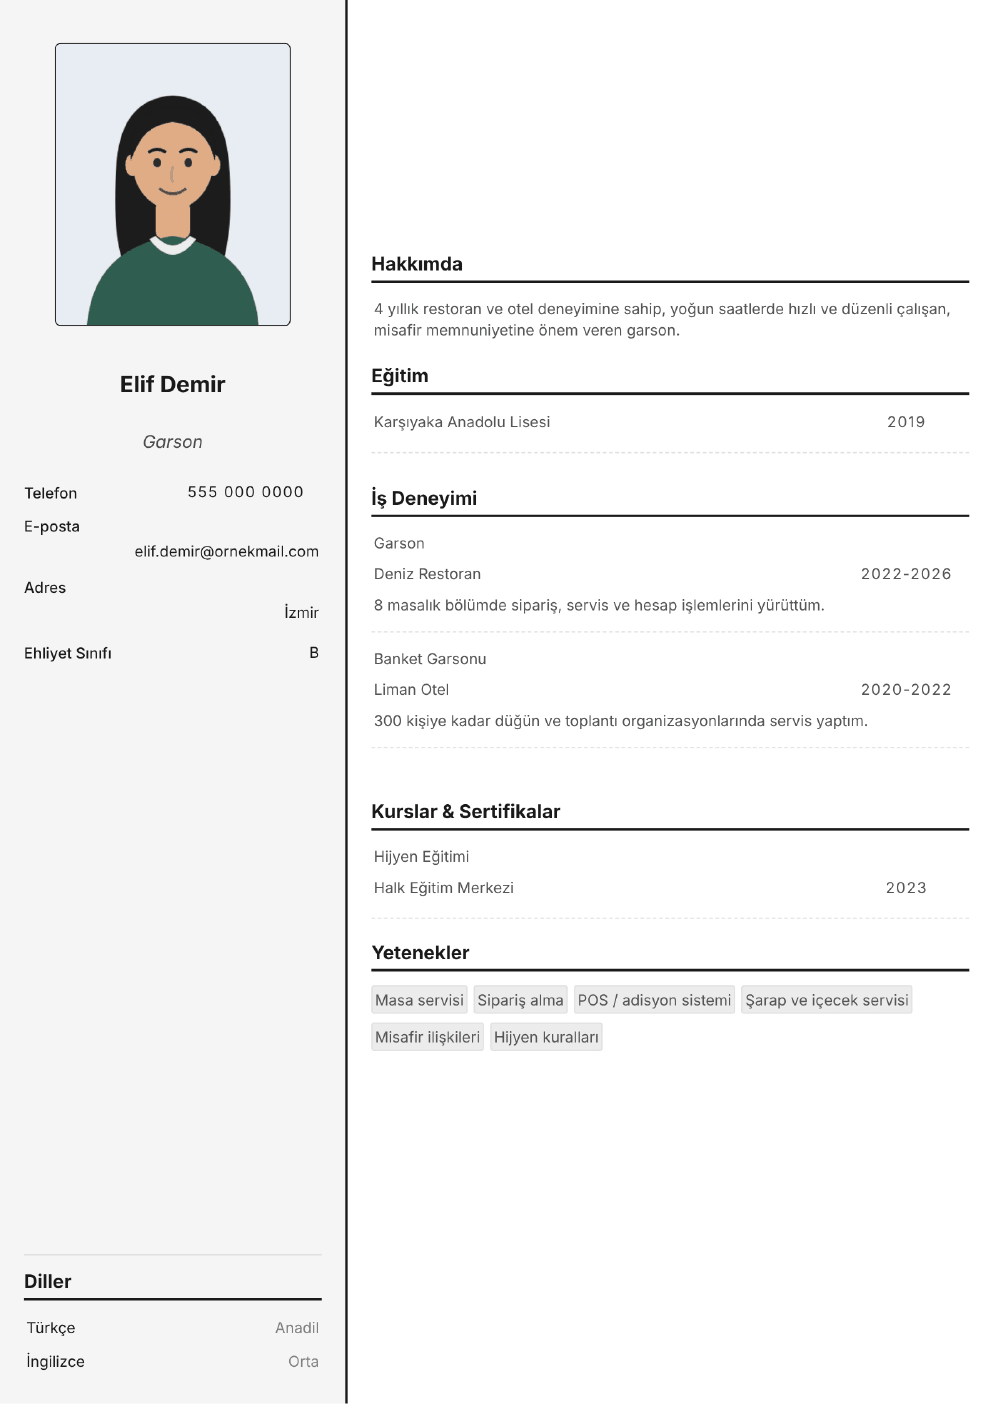
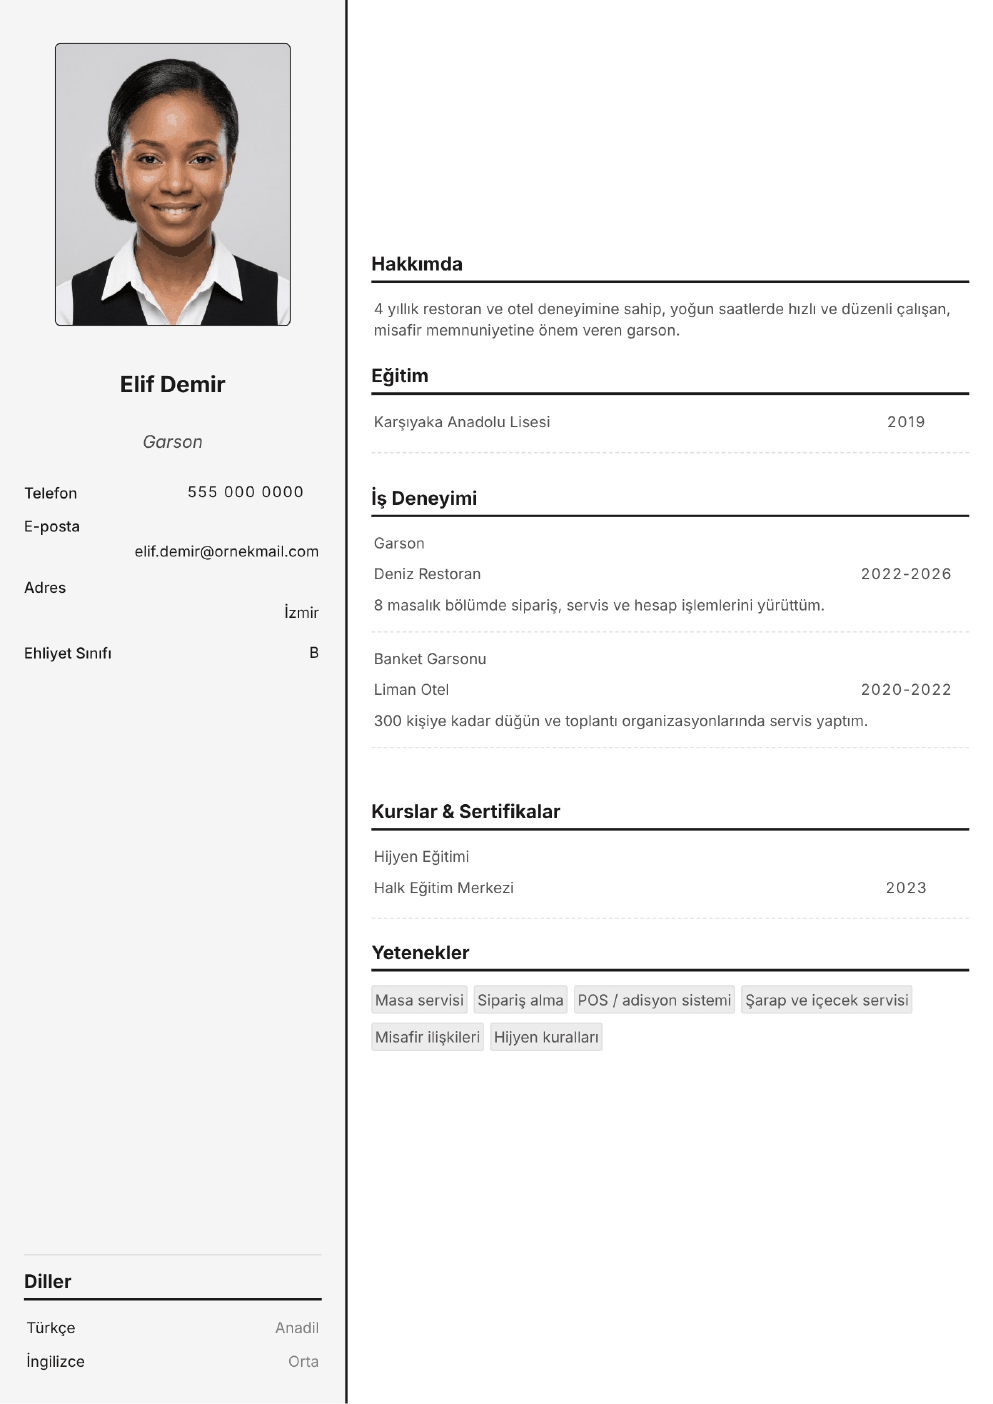
Pilot: garson fotoğraflı örnekte yapay zekâ portresi ve açıklama notu
Claude-Session: https://claude.ai/code/session_01BZrPfnxSA449o9Pa7Xi9BY

Changed region(s): [[0.0312, 0.0306, 0.3122, 0.245]]

diff --git a/garson-cv-sablonu.html b/garson-cv-sablonu.html
@@ -183,7 +183,7 @@
             <div class="skill-tags"><span>Masa servisi</span><span>Sipariş alma</span><span>POS / adisyon sistemi</span><span>Şarap ve içecek servisi</span><span>Misafir ilişkileri</span><span>Hijyen kuralları</span></div>
             <div class="example-cv-section">
                 <h2>Doldurulmuş Garson CV Örneği</h2>
-                <p class="example-note">Bu örnek, MobilCV ile hazırlanmış gerçek bir PDF çıktısıdır. Kişi ve şirket bilgileri tamamen hayalidir; fotoğraflı örnekte gerçek bir kişinin fotoğrafı yerine çizim kullanılmıştır. Fotoğraf eklemek isteğe bağlıdır; başvurduğun ülkenin teamülü için <a href="cvde-fotograf-kullanmali-misiniz.html">CV'de fotoğraf rehberine</a> bak.</p>
+                <p class="example-note">Bu örnek, MobilCV ile hazırlanmış gerçek bir PDF çıktısıdır. Kişi ve şirket bilgileri tamamen hayalidir; fotoğraflı örnekteki portre yapay zekâ ile üretilmiştir, gerçek bir kişiye ait değildir. Fotoğraf eklemek isteğe bağlıdır; başvurduğun ülkenin teamülü için <a href="cvde-fotograf-kullanmali-misiniz.html">CV'de fotoğraf rehberine</a> bak.</p>
                 <div class="example-pair">
                     <figure><figcaption>Fotoğrafsız</figcaption><img src="garson-cv-sablonu.png" alt="Garson için doldurulmuş örnek CV (fotoğrafsız)" class="example-cv-image" loading="lazy" width="993" height="1404"></figure>
                     <figure><figcaption>Fotoğraflı</figcaption><img src="garson-cv-sablonu-fotografli.png" alt="Garson için doldurulmuş örnek CV (fotoğraflı)" class="example-cv-image" loading="lazy" width="993" height="1404"></figure>
